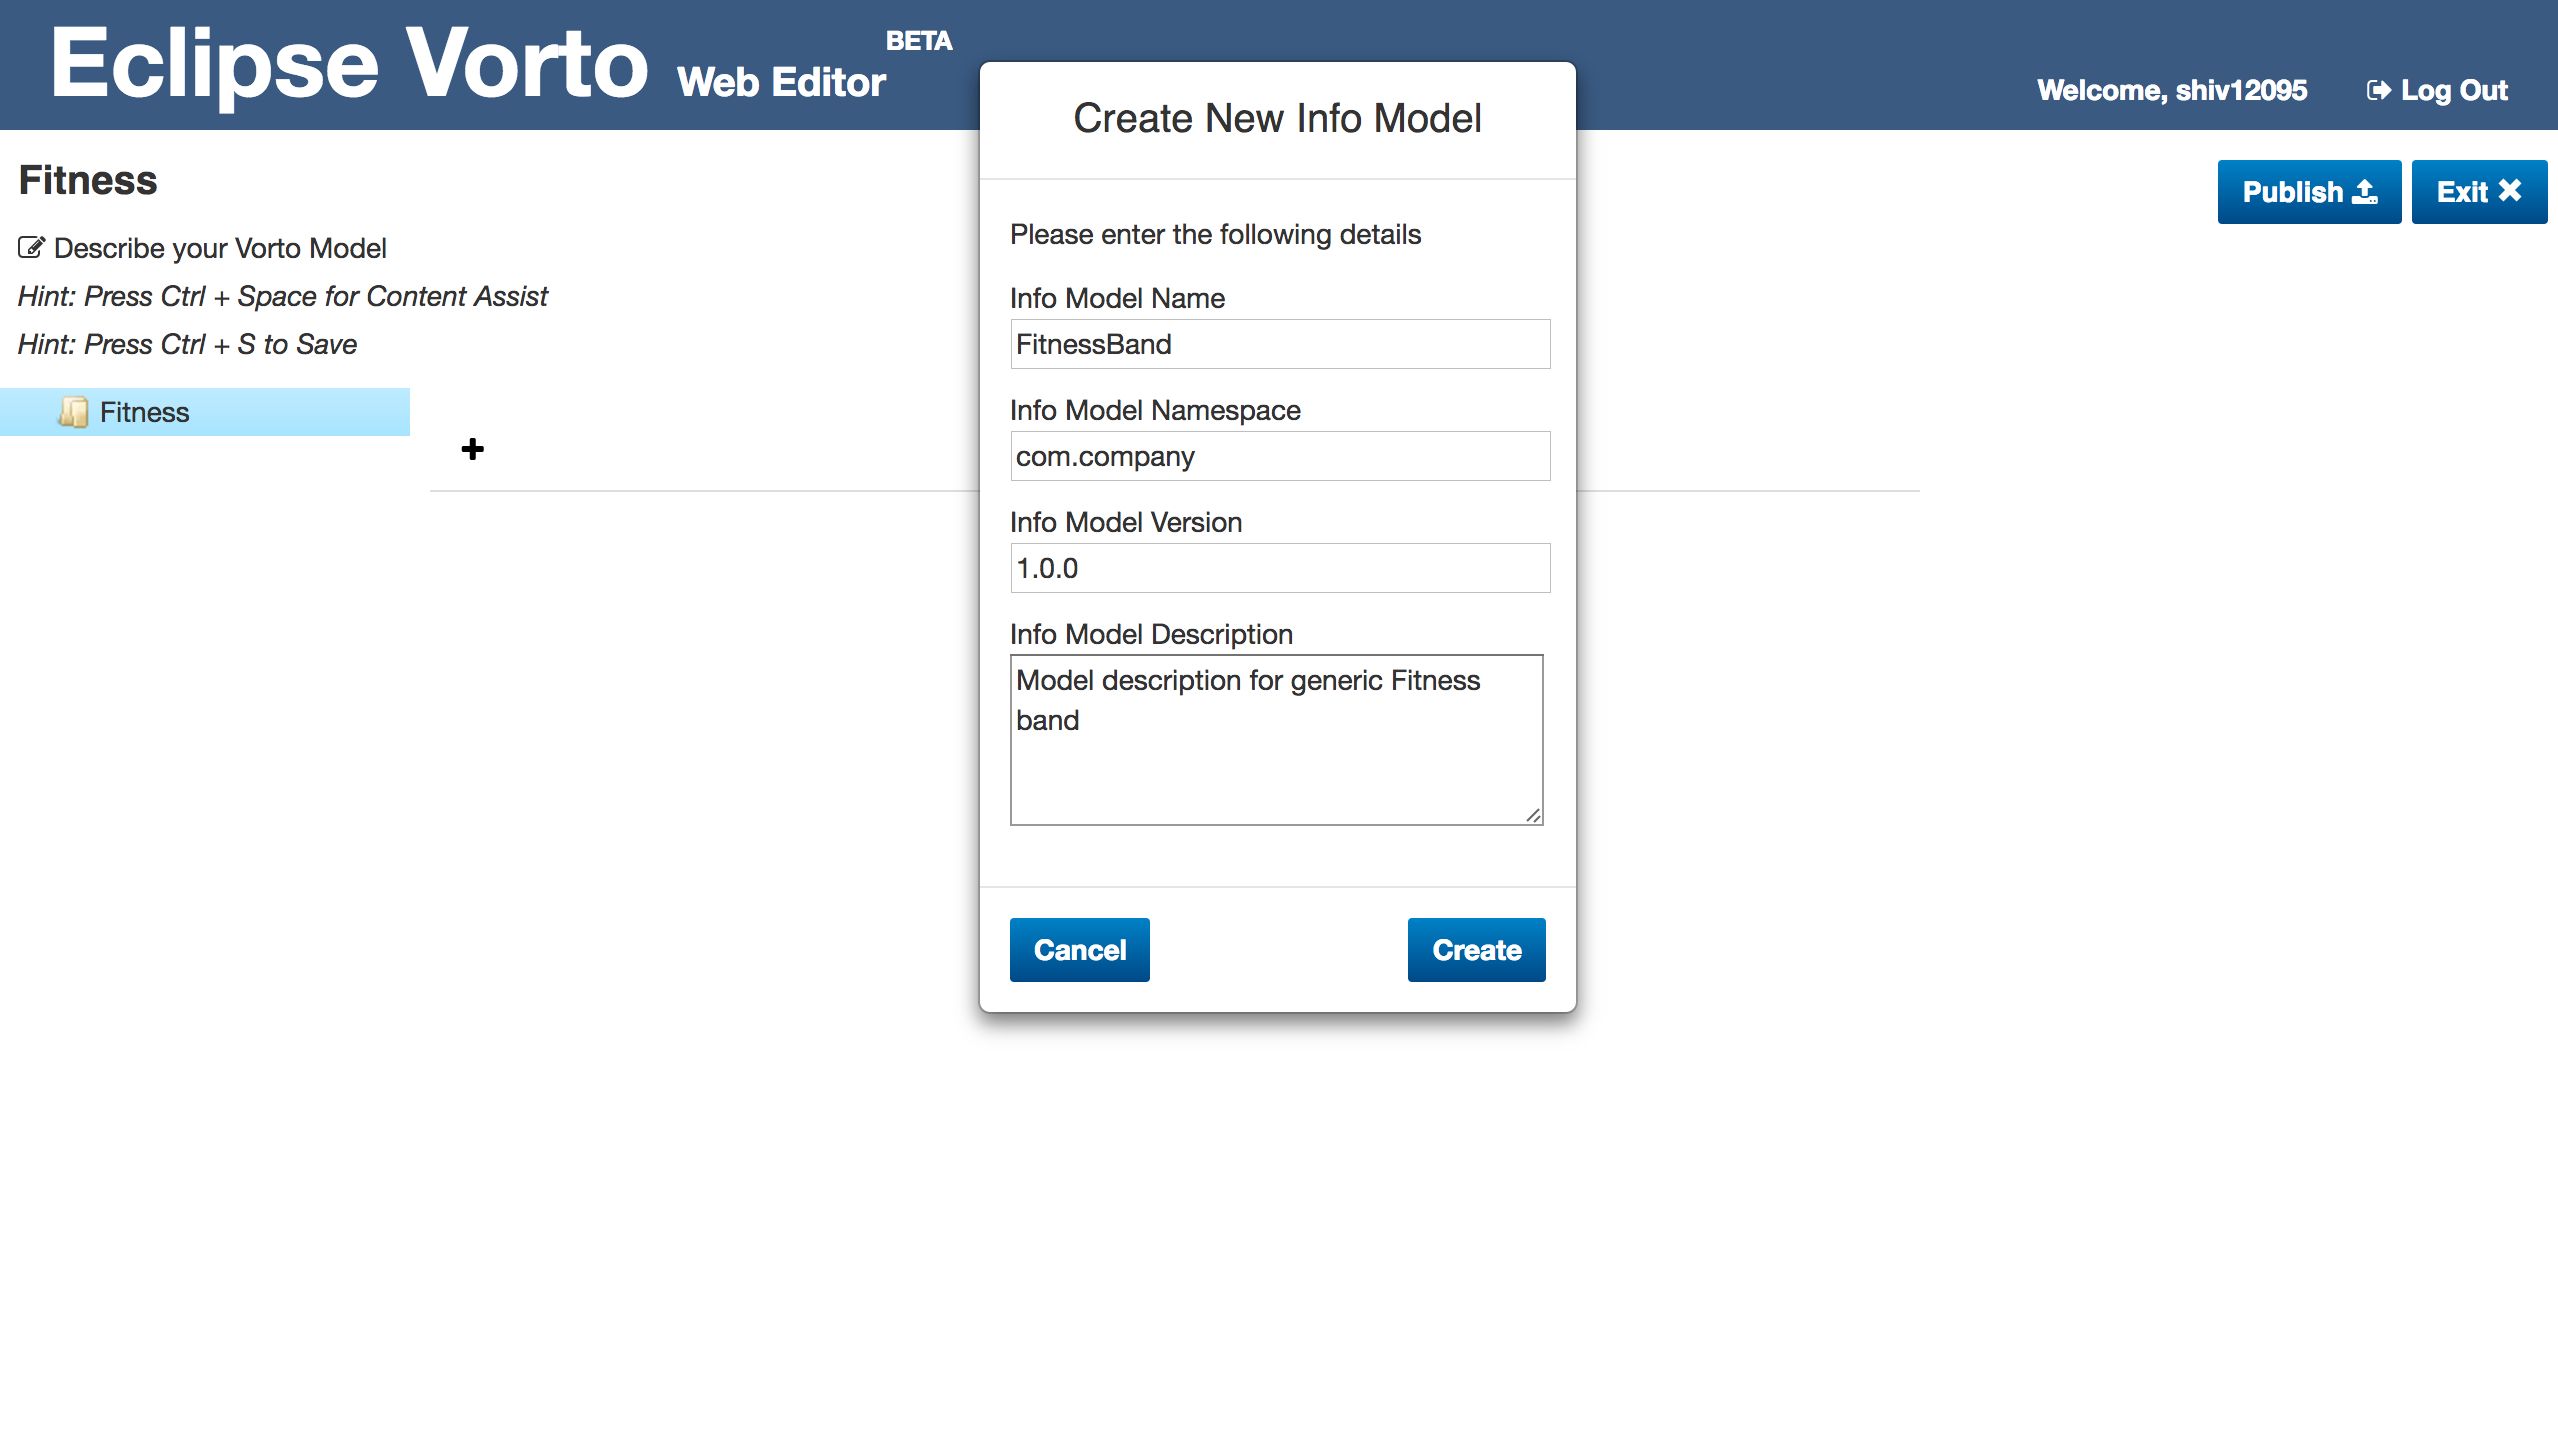
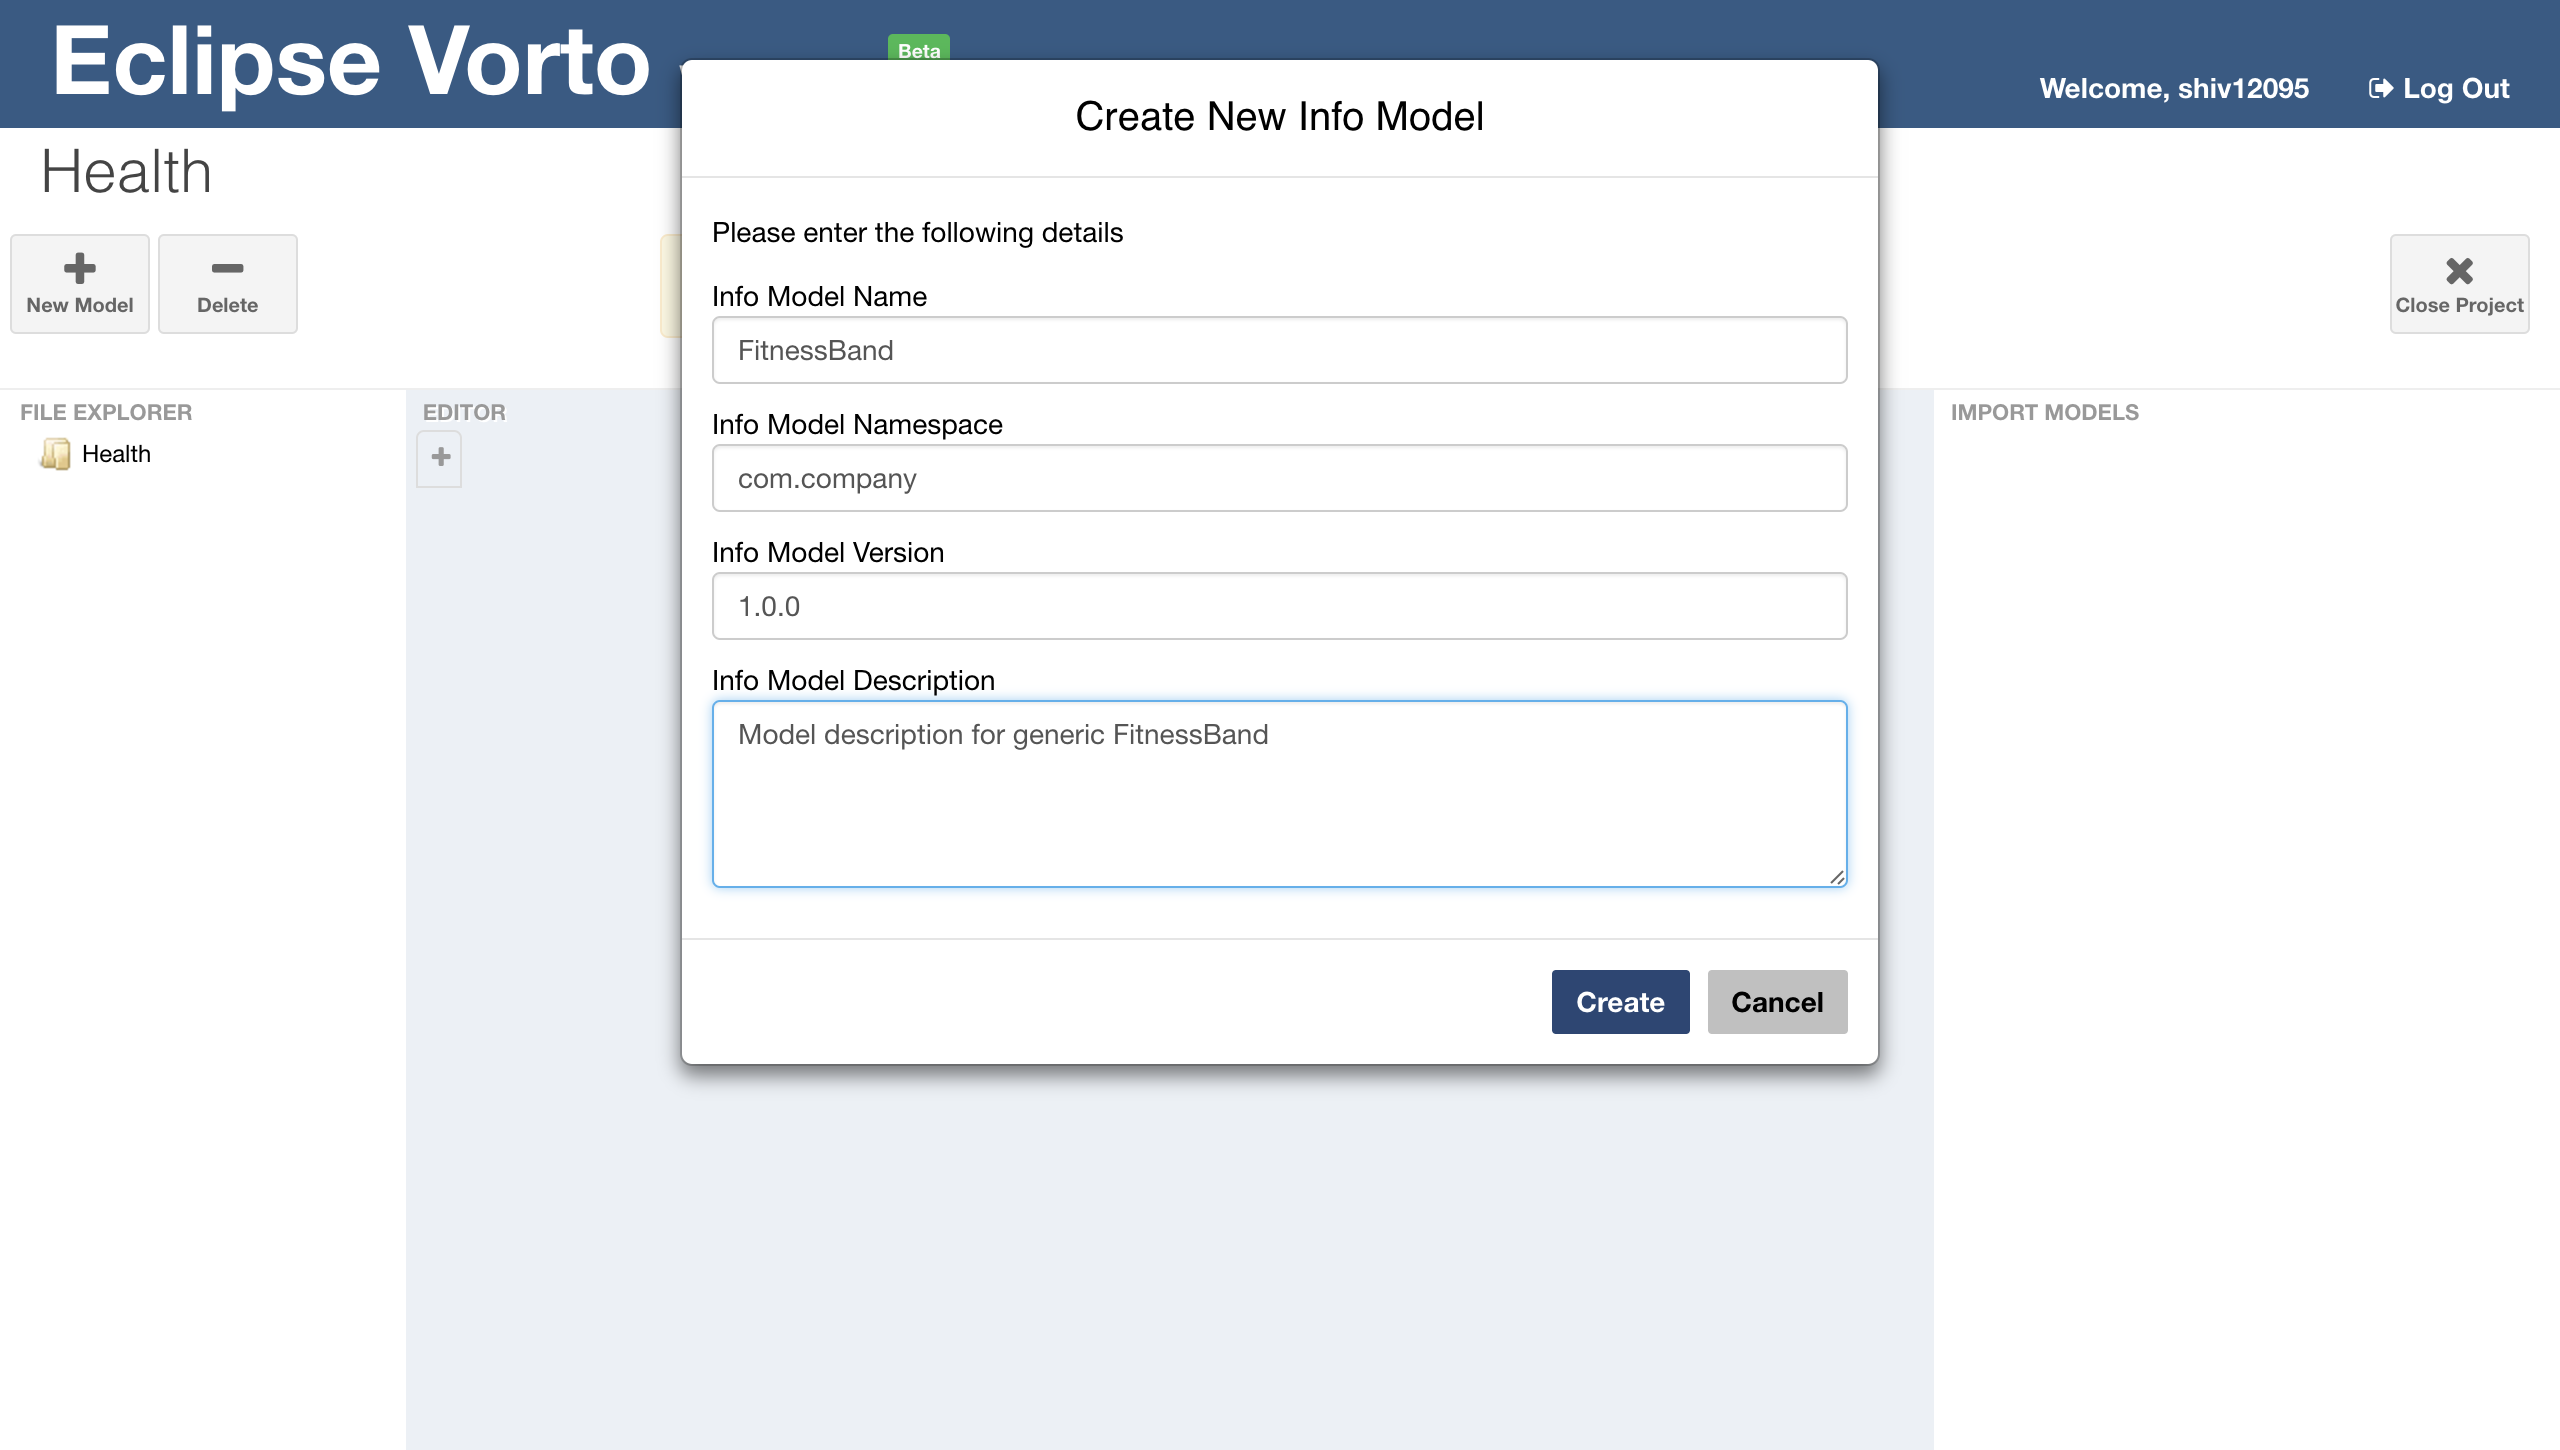
Updated web editor tutorial images with screenshots of new UI. Fixed typos in web editor Readme.md (#644)

diff --git a/server/devtool/webeditor/src/main/resources/static/dist/js/controllers/editor/EditorController.js b/server/devtool/webeditor/src/main/resources/static/dist/js/controllers/editor/EditorController.js
@@ -220,6 +220,7 @@ define(["../init/AppController"], function(controllers) {
     };
 
     $scope.openProject = function() {
+      $scope.isTreeLoading = true;
       $scope.projectName = $routeParams.projectName;
       var params = {projectName: $scope.projectName};
       ProjectDataService.openProject(params).then(function(data){
@@ -227,6 +228,7 @@ define(["../init/AppController"], function(controllers) {
         $scope.getResources();
       }).catch(function(error){
         $scope.showEditorBody = false;
+        $scope.isTreeLoading = false;
       });
     }
 
@@ -256,7 +258,7 @@ define(["../init/AppController"], function(controllers) {
         });
       }
     }
-    
+
     $scope.openDeleteProjectModal = function(projectName) {
       ShareDataService.setDeleteProjectName(projectName);
       var modalInstance = $uibModal.open({
@@ -266,11 +268,11 @@ define(["../init/AppController"], function(controllers) {
         //size: "sm"
       });
     };
-    
+
     $scope.$on("deleteProject", function(event, projectName) {
       $scope.deleteProject(projectName);
     });
-    
+
     $scope.deleteProject = function(projectName) {
       ProjectDataService.deleteProject({projectName: projectName}).then(function(data){
         $scope.closeProject();
@@ -293,7 +295,6 @@ define(["../init/AppController"], function(controllers) {
 
     $scope.getResources = function() {
       var params = {projectName: $scope.projectName};
-      $scope.isTreeLoading = true;
       ProjectDataService.getProjectResources(params).then(function(data){
         var resources = [];
         var rootNode = {

diff --git a/server/devtool/webeditor/Readme.md b/server/devtool/webeditor/Readme.md
@@ -2,7 +2,7 @@
 
 The Vorto web editor is a web application that can be used to create, edit, store and publish technology agnostic, abstract device descriptions, so called information models. The web editor has been designed to offer functionality similar to the [Vorto Toolset](http://www.eclipse.org/vorto/documentation/installation/installation.html#installing-the-vorto-toolset) and can be used as an alternative.
 
-The web editor can also be configured to interact with the Vorto Repository. This not only enables the user to use the existing function blocks and datatypes from the repository while describing new devices but also publish these device descriptions to the repository.
+The web editor can also be configured to interact with the Vorto Repository. This not only enables the user to use the existing function blocks and datatypes from the repository while describing new devices, but also publish these device descriptions to the repository.
 
 Once published the user can convert the information models into executable, platform - specific code with the help of Code Generators.
 
@@ -58,7 +58,7 @@ The web editor uses file based persistence to store the files on the server. The
 
 ## Build and Run
 
-In the command prompt, go the **{$project_root_directory}** and invoke
+In the command prompt, go to **{$project_root_directory}** and invoke
 
     mvn clean install
 
